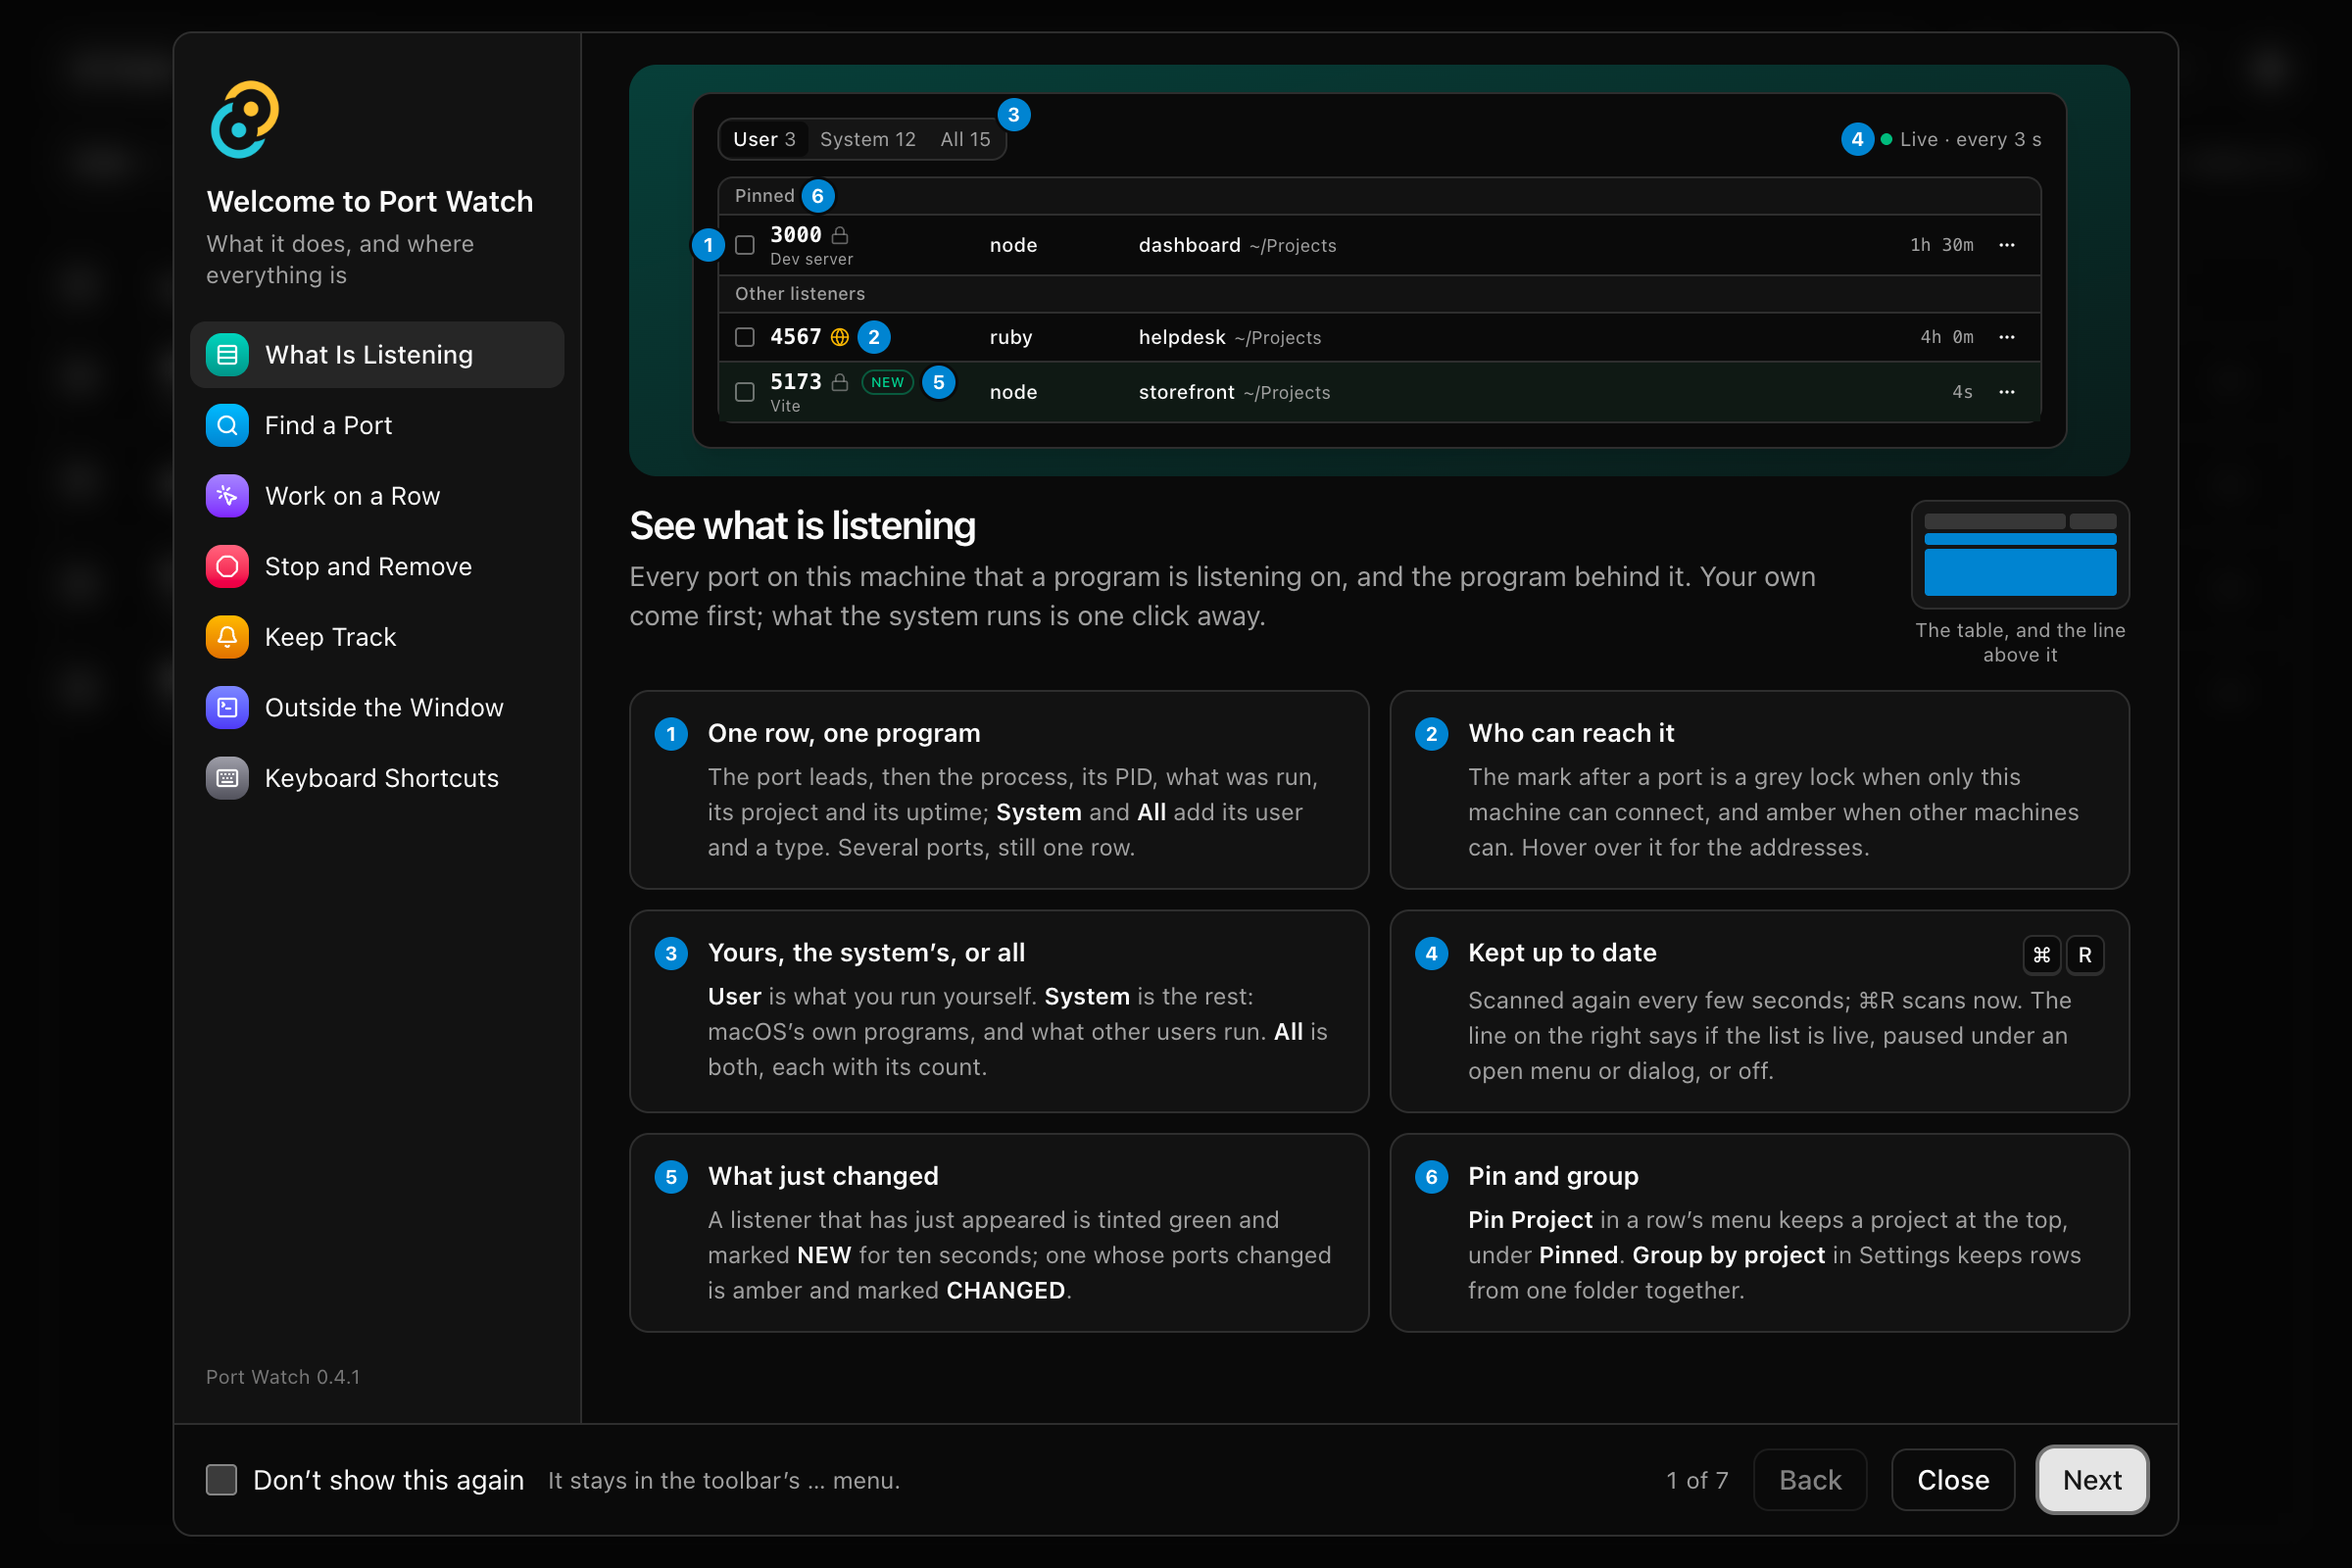
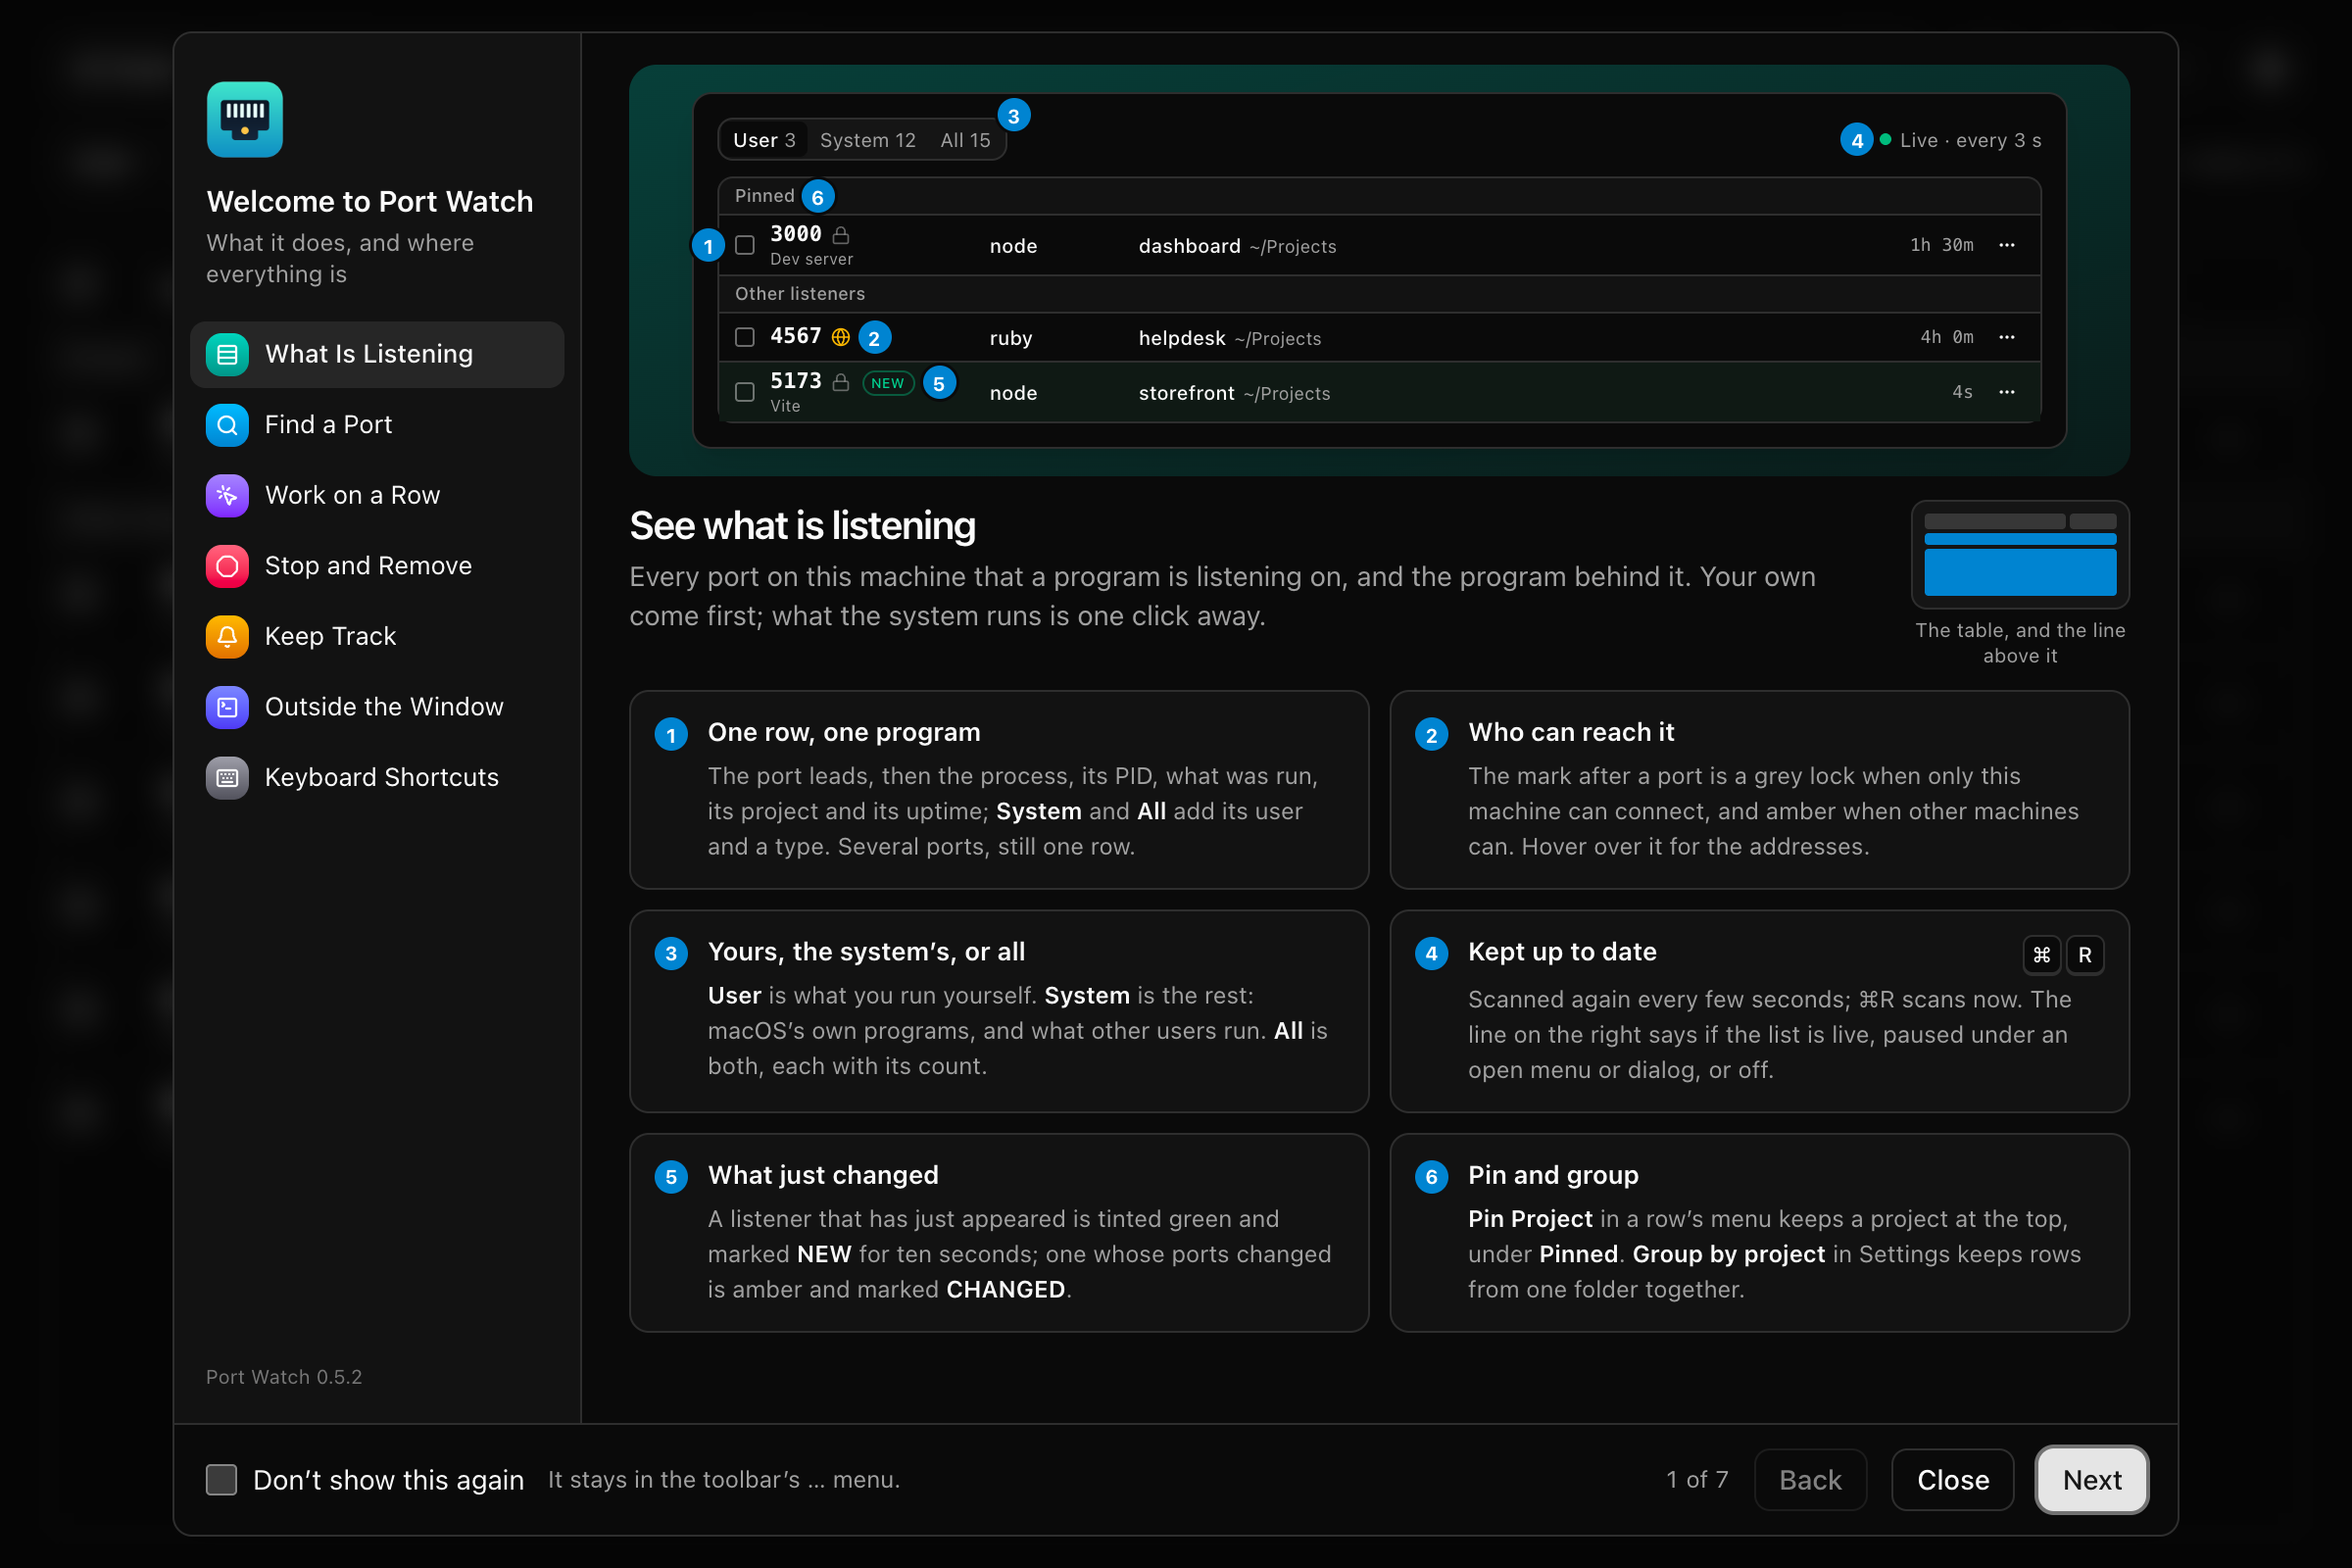
docs: show the promo video in the README (#44)
The video is hosted by GitHub, not kept in the repository. Its score is
under a Creative Commons Attribution licence, so the credit goes with it.
The guide's screenshot is retaken, as it still had the old icon.

diff --git a/README.md b/README.md
@@ -6,6 +6,11 @@
 
 Cross-platform desktop port monitor built with **Tauri 2**, **React**, and **shadcn/ui**. Scan listening TCP/UDP ports, classify processes, and manage dev servers from the system tray or full window.
 
+https://github.com/user-attachments/assets/3af50d9e-4c0c-4aa8-b758-bfa2412d5170
+
+<sub>Music: "Latin Industries" by Kevin MacLeod (incompetech.com), licensed under
+[Creative Commons: By Attribution 4.0](http://creativecommons.org/licenses/by/4.0/).</sub>
+
 ![Main window — dark mode](docs/screenshots/main-window-dark.png)
 
 ## Screenshots
